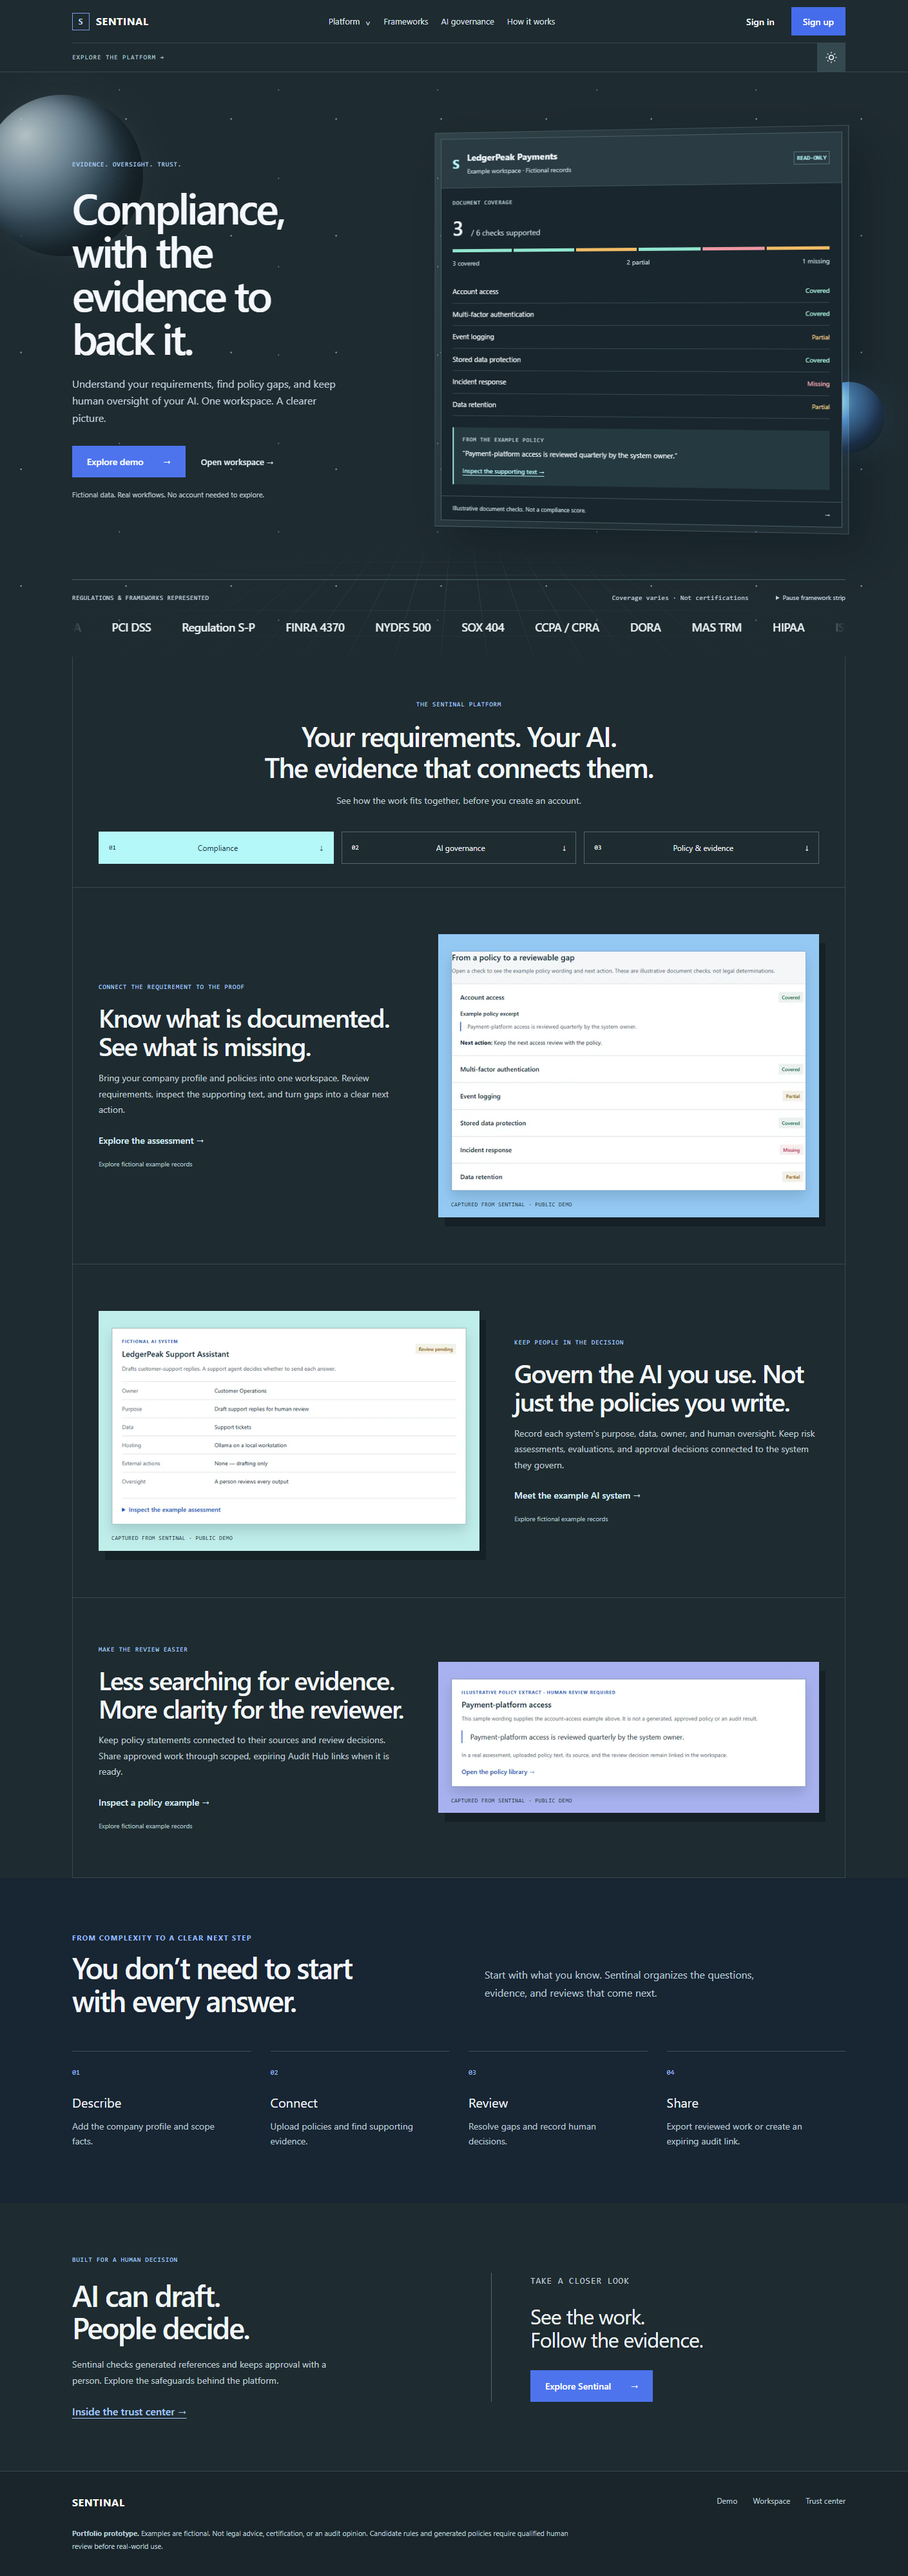
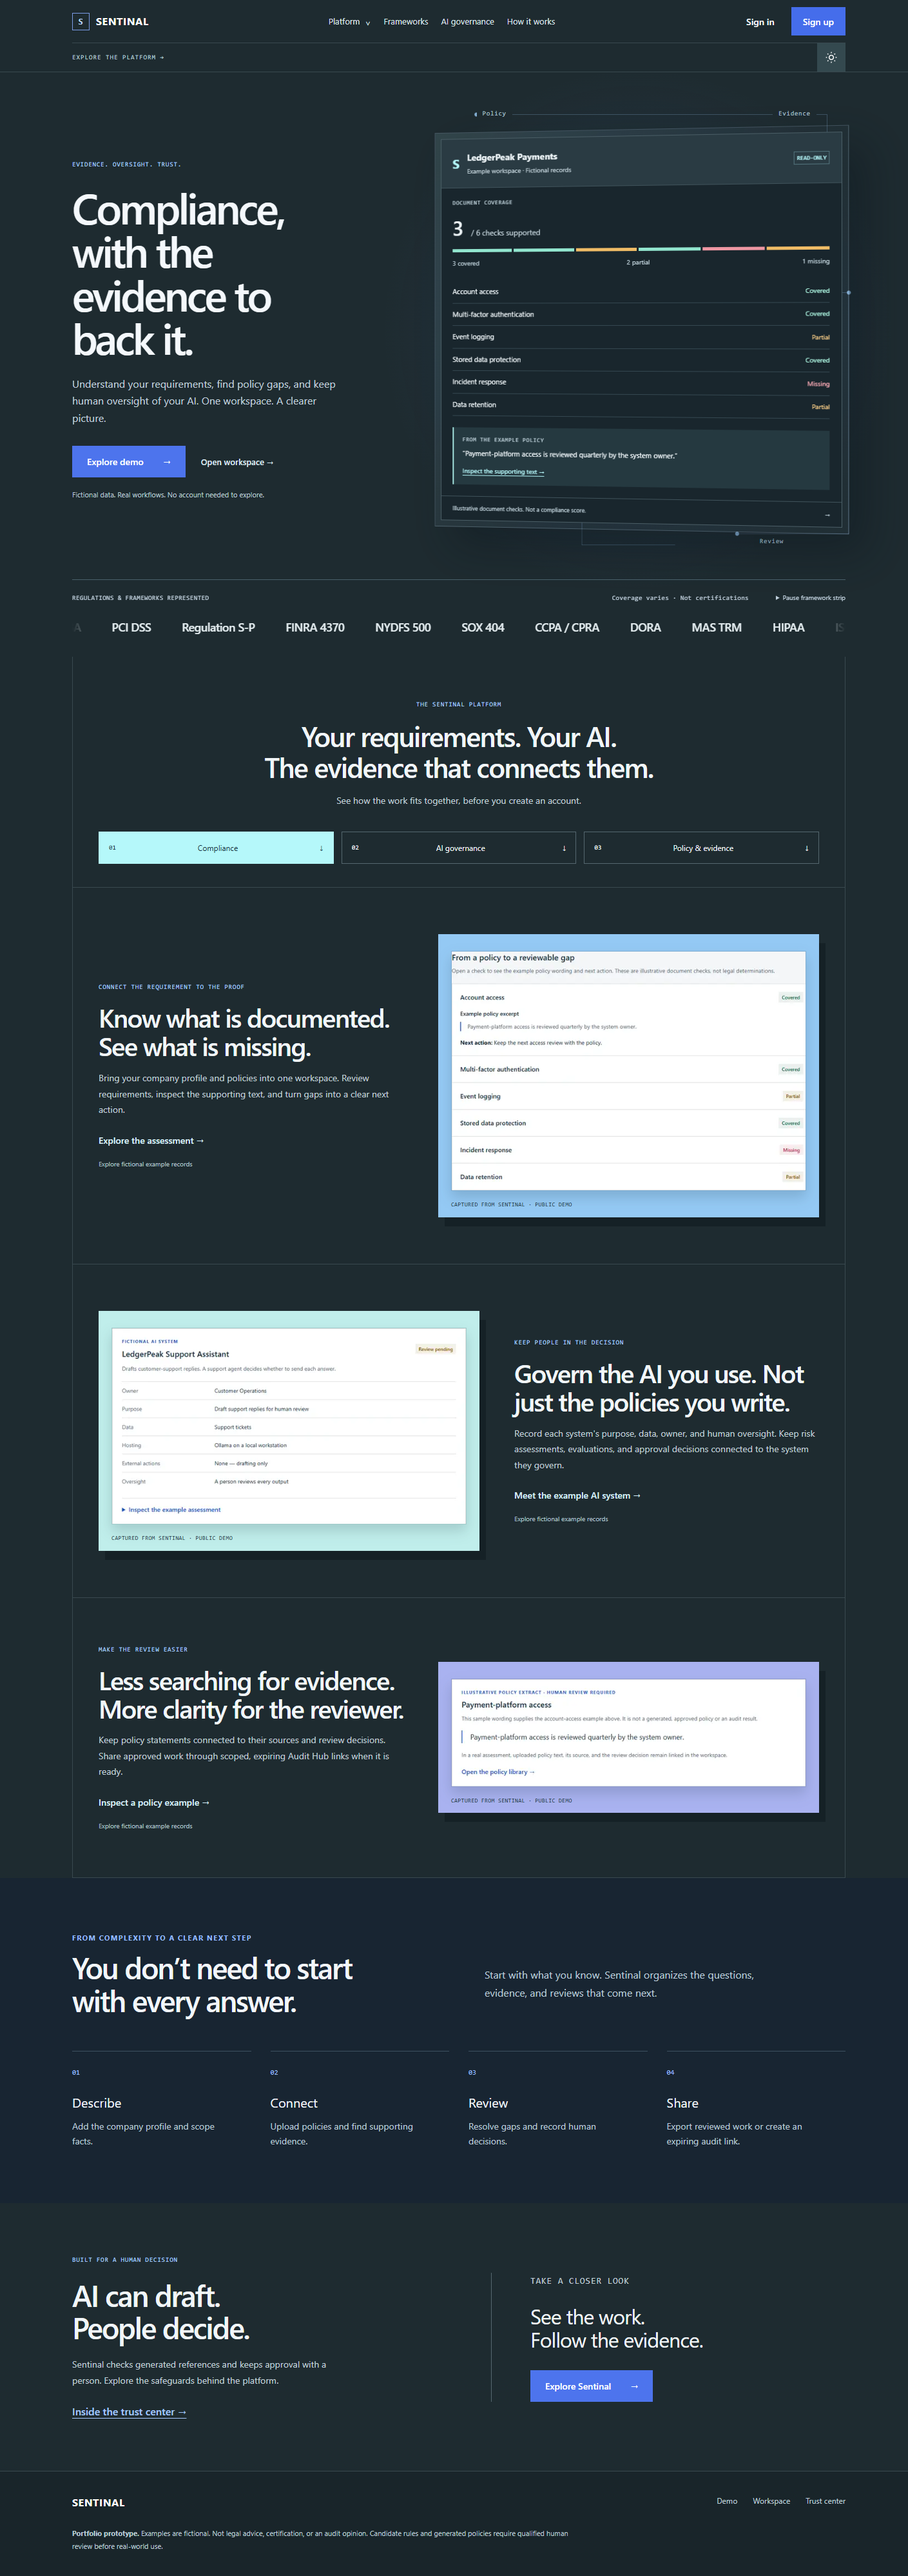
Replace space backdrop with subtle evidence trails

Changed region(s): [[0.0, 0.0311, 0.1249, 0.0932], [0.9056, 0.1242, 0.9681, 0.1863]]

diff --git a/apps/web/src/app/globals.css b/apps/web/src/app/globals.css
@@ -165,10 +165,15 @@ button, summary, a { -webkit-tap-highlight-color: transparent; }
 
 /* Public product story. Dedicated colors avoid changing tenant-tool semantics. */
 .landing-hero { position: relative; isolation: isolate; overflow: hidden; background: #1e2b30; }
-.hero-orbit { position: absolute; inset: 0; z-index: -1; pointer-events: none; overflow: hidden; background-image: radial-gradient(circle at 20% 40%, #d0eaff88 0 1px, transparent 1.5px), radial-gradient(circle at 75% 20%, #a6c9ff55 0 1px, transparent 1.5px); background-size: 163px 181px, 247px 137px; }
-.orbit-globe { position: absolute; width: 250px; height: 250px; left: max(-100px, calc(50% - 740px)); top: 35px; border-radius: 50%; background: radial-gradient(circle at 27% 25%, #d7e5e8, #809aab 28%, #344b59 53%, #172229 73%); box-shadow: inset -24px -8px 40px #101a20, 0 0 45px #c4e3ff15; opacity: .8; }
-.orbit-satellite { position: absolute; width: 110px; height: 110px; border-radius: 50%; right: max(-30px, calc(50% - 660px)); top: 480px; background: radial-gradient(circle at 28% 28%, #b5f8fa, #518ec6 30%, #203653 65%, #182830 80%); box-shadow: 0 0 50px #70b3ff20; }
-.orbit-grid { position: absolute; bottom: -90px; left: 10%; width: 80%; height: 390px; transform: perspective(380px) rotateX(58deg); background-image: linear-gradient(#a5d9e522 1px, transparent 1px), linear-gradient(90deg, #a5d9e522 1px, transparent 1px); background-size: 50px 50px; mask-image: radial-gradient(ellipse, #000, transparent 68%); }
+.hero-scene { position: relative; isolation: isolate; min-width: 0; }
+.hero-scene::before { content: ""; position: absolute; inset: -100px -80px; z-index: -1; pointer-events: none; background: radial-gradient(ellipse, #527ddc24, transparent 70%); }
+.evidence-trails { position: absolute; inset: -34px -24px; pointer-events: none; }
+.evidence-trails svg { width: 100%; height: 100%; overflow: visible; fill: #84afd5; stroke: #84afd54d; stroke-width: 1; }
+.evidence-trails path { fill: none; vector-effect: non-scaling-stroke; }
+.evidence-trails span { position: absolute; padding: 4px 9px; background: #1e2b30; color: #abc2d2; font: 10px monospace; letter-spacing: .07em; }
+.trail-policy { top: 0; left: 14%; }
+.trail-evidence { top: 0; right: 10%; }
+.trail-review { bottom: 1%; right: 16%; }
 .hero-layout { display: grid; grid-template-columns: .95fr 1.25fr; align-items: center; gap: 64px; padding-block: 88px 76px; }
 .hero-copy { position: relative; }
 .hero-copy h1 { font-size: clamp(2.5rem, 4.65vw, 4.6rem); line-height: 1.02; letter-spacing: -.055em; font-weight: 600; margin: 24px 0; max-width: 12ch; }
@@ -178,7 +183,7 @@ button, summary, a { -webkit-tap-highlight-color: transparent; }
 .hero-actions .hero-link { font-size: 13px; text-decoration: none; color: #dceaf1; }
 .hero-note { color: #bacbd2; font-size: 11px; line-height: 1.6; margin-top: 18px; max-width: 330px; }
 .hero-eyebrow { font: 10px monospace; letter-spacing: .08em; line-height: 1.7; color: #aacfff; }
-.hero-product { min-width: 0; padding: 9px; background: linear-gradient(120deg, #b9f4ff20, #7498df08 60%); border: 1px solid #bdd7f233; box-shadow: 28px 30px 65px #05101755; transform: perspective(1400px) rotateY(-5deg); }
+.hero-product { position: relative; min-width: 0; padding: 9px; background: linear-gradient(120deg, #b9f4ff20, #7498df08 60%); border: 1px solid #bdd7f233; box-shadow: 28px 30px 65px #05101755; transform: perspective(1400px) rotateY(-5deg); }
 .product-preview { background: #19262d; color: #edf4f7; border: 1px solid #4b5e66; font-size: 12px; }
 .preview-title { display: flex; gap: 12px; align-items: center; padding: 18px; border-bottom: 1px solid #40535b; background: #2a3b43; }
 .preview-title strong { display: block; font-size: 14px; }
@@ -264,10 +269,13 @@ button, summary, a { -webkit-tap-highlight-color: transparent; }
   .hero-layout, .feature-row, .feature-reverse, .workflow-heading, .closing-layout { grid-template-columns: 1fr; }
   .hero-copy h1 { font-size: clamp(2.65rem, 9vw, 4rem); max-width: 15ch; }
   .hero-product { transform: none; margin-top: 12px; }
-  .orbit-globe { left: auto; right: -120px; opacity: .35; }
+  .hero-scene { margin-top: 28px; }
+  .evidence-trails { inset: -20px 0 auto; display: flex; justify-content: space-between; }
+  .evidence-trails svg { display: none; }
+  .evidence-trails::before { content: ""; position: absolute; inset: 9px 8px auto; border-top: 1px solid #84afd54d; }
+  .evidence-trails span { position: relative; inset: auto; }
   .hero-copy { max-width: 560px; }
   .hero-copy > .hero-muted { max-width: 500px; }
-  .orbit-satellite { display: none; }
   .framework-strip > p { padding-right: 0; margin-bottom: 12px; }
   .framework-strip .ticker-control { position: static; margin: 0 0 16px; }
   .framework-strip .framework-marquee__group span { font-size: 16px; }

diff --git a/apps/web/src/app/page.tsx b/apps/web/src/app/page.tsx
@@ -22,10 +22,15 @@ const steps = [
 export default function Home() {
   return <main className="landing-page">
     <section className="landing-hero" aria-labelledby="platform-heading">
-      <div className="hero-orbit" aria-hidden="true"><div className="orbit-globe" /><div className="orbit-grid" /><div className="orbit-satellite" /></div>
       <div className="marketing-container hero-layout">
         <div className="hero-copy"><p className="hero-eyebrow">EVIDENCE. OVERSIGHT. TRUST.</p><h1 id="platform-heading">Compliance, with the evidence to back it.</h1><p className="hero-muted">Understand your requirements, find policy gaps, and keep human oversight of your AI. One workspace. A clearer picture.</p><div className="hero-actions"><Link className="primary-button" href="/demo">Explore demo <span aria-hidden>→</span></Link><Link className="hero-link" href="/workspace">Open workspace →</Link></div><p className="hero-note">Fictional data. Real workflows. No account needed to explore.</p></div>
-        <div className="hero-product"><ProductPreview /></div>
+        <div className="hero-scene">
+          <div className="evidence-trails" aria-hidden="true">
+            <svg viewBox="0 0 720 720" preserveAspectRatio="none" focusable="false"><path d="M100 12H665V300H700V690H520M45 180V650H270V708H420" /><circle cx="100" cy="12" r="3" /><circle cx="700" cy="300" r="3" /><circle cx="520" cy="690" r="3" /></svg>
+            <span className="trail-policy">Policy</span><span className="trail-evidence">Evidence</span><span className="trail-review">Review</span>
+          </div>
+          <div className="hero-product"><ProductPreview /></div>
+        </div>
       </div>
       <div className="marketing-container framework-strip" id="frameworks"><p className="hero-muted">REGULATIONS & FRAMEWORKS REPRESENTED <span>Coverage varies · Not certifications</span></p><details className="ticker-control"><summary>Pause framework strip</summary><span className="sr-only">Close to resume.</span></details><div className="framework-marquee" aria-label="Regulations and frameworks represented"><div className="framework-marquee__track">{[0, 1].map((copy) => <div key={copy} className="framework-marquee__group" aria-hidden={copy === 1}>{regimes.map((regime) => <span key={regime}>{regime}</span>)}</div>)}</div></div></div>
     </section>

diff --git a/apps/api/scripts/selenium_ui_review.py b/apps/api/scripts/selenium_ui_review.py
@@ -80,6 +80,11 @@ def main() -> None:
             return
         open_page("/")
         assert not driver.find_elements(By.CSS_SELECTOR, "form, #program-status")
+        assert not driver.find_elements(By.CSS_SELECTOR, ".hero-orbit, .orbit-globe, .orbit-grid, .orbit-satellite")
+        trails = driver.find_element(By.CLASS_NAME, "evidence-trails")
+        assert trails.get_attribute("aria-hidden") == "true"
+        assert [label.text for label in trails.find_elements(By.TAG_NAME, "span")] == ["Policy", "Evidence", "Review"]
+        assert driver.execute_script("return getComputedStyle(arguments[0]).pointerEvents", trails) == "none"
         assert "Example workspace" in driver.find_element(By.CLASS_NAME, "product-preview").text
         assert "74%" not in driver.find_element(By.TAG_NAME, "main").text
         for mode in ["light", "dark"]:

diff --git a/README.md b/README.md
@@ -19,7 +19,7 @@ Actual company assessments now live in [Workspace](https://web-six-xi-53.vercel.
 ![Sentinal public homepage](screenshots/01-overview.png)
 
 The public landing page uses a slim horizontal header with an accessible **Platform** dropdown,
-an original grid-and-orbit hero, and alternating screenshot-led sections for compliance, AI
+a quiet charcoal hero with subtle Policy → Evidence → Review trails, and alternating screenshot-led sections for compliance, AI
 governance, and policy evidence. The product images are captured from Sentinal's own fictional
 demo; no customer logos, endorsements, or certification claims are implied. All workspace tools
 remain available through Platform and the workspace navigation. Motion is limited to a pausable
